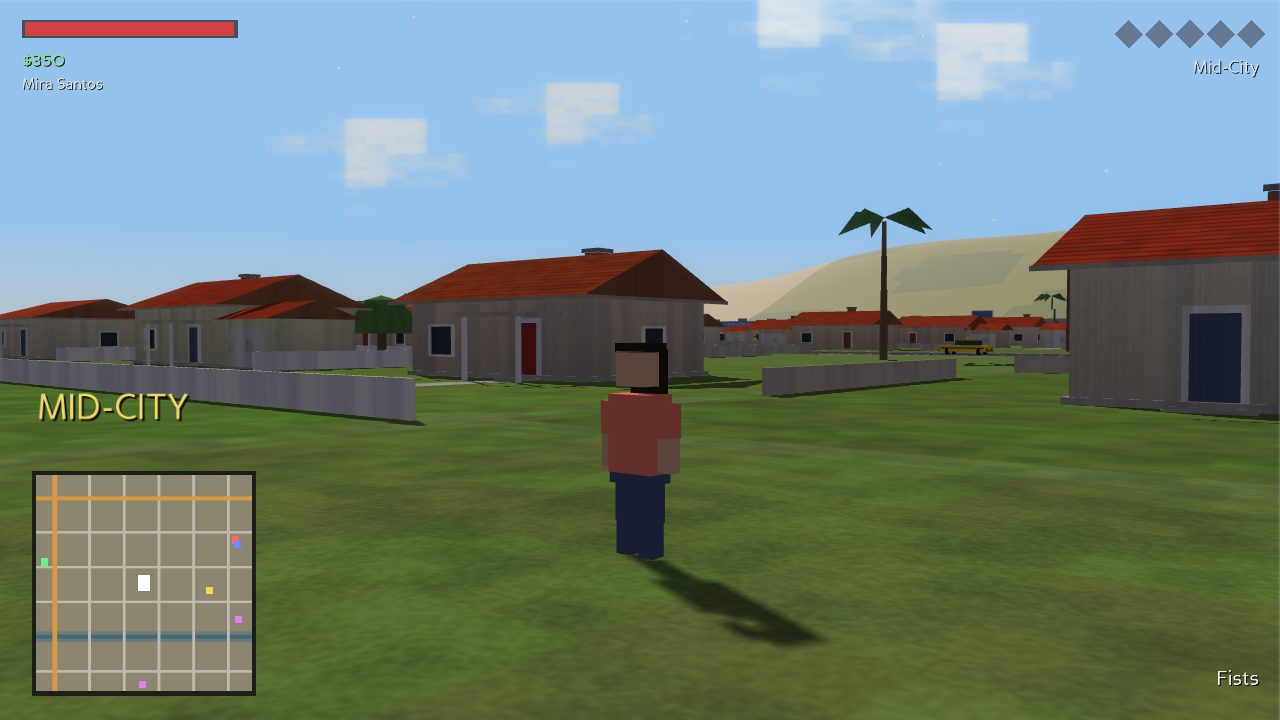
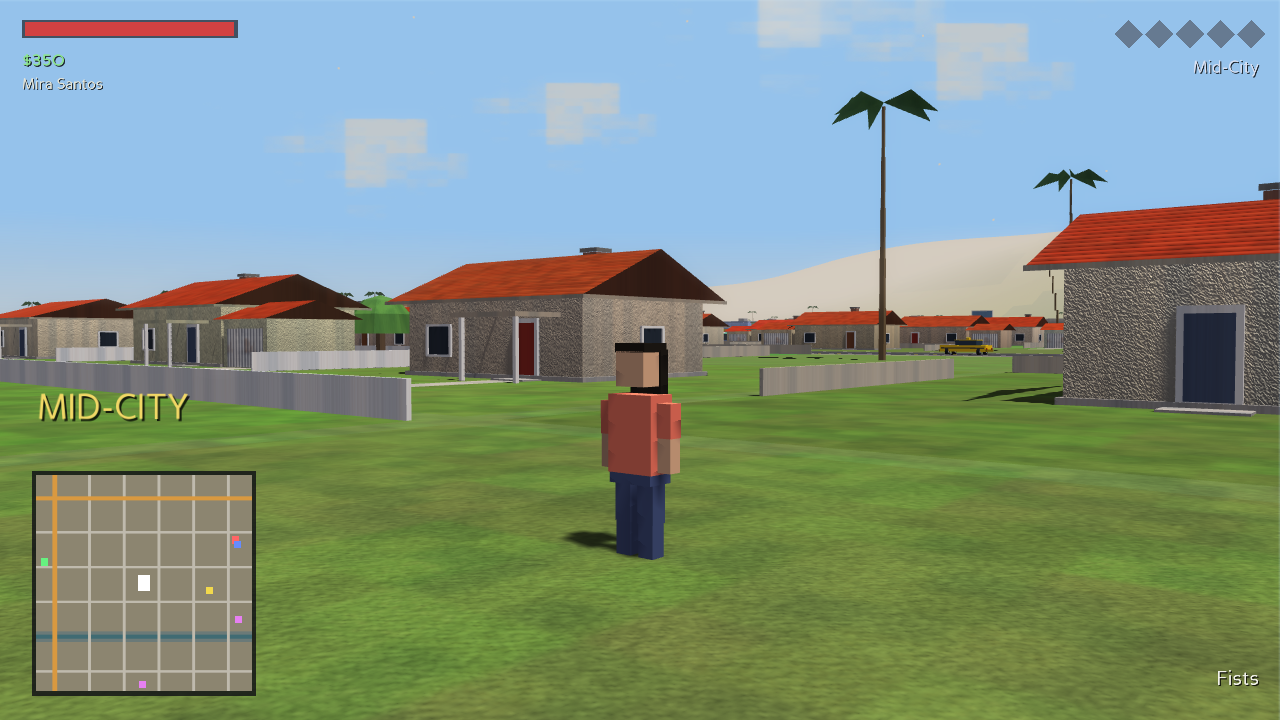
Realism pass: LA solar ephemeris, normal maps, PBR-style response, true scale
- Real sun geometry for Los Angeles (34.05N, Jun 21): elevation/azimuth
  from the standard declination/hour-angle model drives the light
  direction; blackbody-ish color ramp gives golden light below 8 deg
- June-gloom marine layer: gray haze mornings that burn off by 11:00
- Tangent/binormal columns in the mesh format; tangent-space normal
  maps for every material class (concrete joints, roof-tile courses,
  corrugation ribs, asphalt aggregate, sand ripples, stucco grain,
  facade mullions), aligned with the diffuse patterns
- Per-material specular response: matte stucco/grass to semi-gloss
  metal and glossy glass curtain walls; specular sun glint on water
- Scale corrections: 3.6 m lane lines, 3 m sidewalks, 12-20 m
  Washingtonia-scale palms with slimmer trunks
- New golden-hour scenario; drive scenario moved to a clear midday

Claude-Session: https://claude.ai/code/session_01Sm8Y5zn3ME1AbFn14h4ane

diff --git a/angelcity/gfx.py b/angelcity/gfx.py
@@ -188,6 +188,62 @@ _MAT_TEX_FNS = {"asphalt": asphalt_texture, "concrete": concrete_texture,
                 "roof": rooftile_texture, "stucco": stucco_texture,
                 "grass": grass_texture, "sand": sand_texture, "metal": metal_texture}
 
+# physically-motivated surface response per class (specular color scale, shininess)
+MAT_SURFACE = {"asphalt": (0.18, 14), "concrete": (0.10, 8), "roof": (0.22, 12),
+               "stucco": (0.06, 6), "grass": (0.04, 4), "sand": (0.07, 5),
+               "metal": (0.65, 30)}
+
+
+def _encode_normal(h, strength):
+    dx = np.roll(h, -1, 1) - np.roll(h, 1, 1)
+    dy = np.roll(h, -1, 0) - np.roll(h, 1, 0)
+    nx, ny, nz = -dx * strength, -dy * strength, np.ones_like(h)
+    l = np.sqrt(nx * nx + ny * ny + nz * nz)
+    arr = np.stack([nx / l, ny / l, nz / l], axis=-1) * 0.5 + 0.5
+    return arr
+
+
+def normal_texture(mat, size=256):
+    """Tangent-space normal map per material, from analytic height fields that line
+    up with the diffuse patterns (joints, tile courses, ribs, ripples, grain)."""
+    y, x = np.mgrid[0:size, 0:size] / size
+    rng = np.random.default_rng(101)
+    if mat == "concrete":
+        h = _fbm(size, 13, 3) * 0.25
+        for k in (0, size // 2):
+            h[k:k + 2, :] -= 1.2
+            h[:, k:k + 2] -= 1.2
+        strength = 2.2
+    elif mat == "roof":
+        course = 8
+        row = (y * course) % 1.0
+        h = np.clip(np.sin(row * math.pi), 0, 1) * 1.6
+        h[row < 0.10] -= 1.2
+        strength = 2.8
+    elif mat == "metal":
+        h = np.abs(np.sin(x * 12 * math.tau)) * 1.4 + _fbm(size, 31, 2) * 0.3
+        strength = 2.6
+    elif mat == "sand":
+        h = np.sin((x * 7 + _fbm(size, 29, 2) * 1.6) * math.tau) * 0.9
+        strength = 1.8
+    elif mat == "asphalt":
+        h = rng.uniform(-1, 1, (size, size)) * 0.35 + _fbm(size, 11, 3) * 0.5
+        strength = 1.6
+    elif mat == "facade":
+        cell = 16
+        h = np.ones((size, size)) * 0.5
+        for k in range(0, size, cell):
+            h[k:k + 2, :] -= 1.4
+            h[:, k:k + 2] -= 1.4
+        strength = 2.0
+    elif mat == "grass":
+        h = rng.uniform(-1, 1, (size, size)) * 0.3 + _fbm(size, 19, 3) * 0.4
+        strength = 0.6
+    else:   # stucco
+        h = rng.uniform(-1, 1, (size, size)) * 0.5 + _fbm(size, 19, 3) * 0.4
+        strength = 1.0
+    return _tex_from_array(_encode_normal(h, strength), "n_" + mat)
+
 
 def facade_texture(size=128, cell=16, seed=7):
     """Window grid for tower walls: glass panes with mullions and per-pane variance."""
@@ -275,26 +331,44 @@ class Gfx:
         city_np.setTexScale(ts, 1 / 9.0, 1 / 9.0)
         city_np.setTexture(ts, detail_texture())
 
-        # per-material textures: horizontal classes are world-projected; wall/roof
-        # classes carry baked UVs from the mesh builder
+        # per-material textures + normal maps + surface response: horizontal classes
+        # are world-projected; wall/roof classes carry baked UVs from the mesh builder
         projected = {"asphalt", "concrete", "grass", "sand"}
         for mat, nodes in game.city.mat_nodes.items():
             fn = _MAT_TEX_FNS.get(mat)
             if fn is None:
                 continue
             tex = fn()
+            ntex = normal_texture(mat)
             base = TextureStage("mat_" + mat)
             base.setMode(TextureStage.MModulate)
+            norm = TextureStage("nrm_" + mat)
+            norm.setMode(TextureStage.MNormal)
+            spec, shin = MAT_SURFACE.get(mat, (0.1, 8))
+            m = Material("m_" + mat)
+            m.setSpecular((spec, spec, spec, 1))
+            m.setShininess(shin)
             for np_ in nodes:
                 np_.setTexture(base, tex)
+                np_.setTexture(norm, ntex)
+                np_.setMaterial(m)
                 if mat in projected:
-                    np_.setTexGen(base, TexGenAttrib.MWorldPosition)
-                    np_.setTexScale(base, 1 / MAT_SCALE[mat], 1 / MAT_SCALE[mat])
+                    for st in (base, norm):
+                        np_.setTexGen(st, TexGenAttrib.MWorldPosition)
+                        np_.setTexScale(st, 1 / MAT_SCALE[mat], 1 / MAT_SCALE[mat])
 
-        # tower facades: three window-grid variants
+        # tower facades: three window-grid variants, glassy response + mullion relief
         variants = [facade_texture(seed=7), facade_texture(seed=15), facade_texture(seed=23)]
+        fnorm = normal_texture("facade", 128)
+        fstage = TextureStage("nrm_facade")
+        fstage.setMode(TextureStage.MNormal)
+        glass_m = Material("m_glass")
+        glass_m.setSpecular((0.9, 0.92, 0.95, 1))
+        glass_m.setShininess(90.0)
         for i, np_ in enumerate(game.city.facade_nps):
             np_.setTexture(variants[i % len(variants)])
+            np_.setTexture(fstage, fnorm)
+            np_.setMaterial(glass_m)
 
         # animated water: drifting layers + specular sun glint
         wnp = game.city.water_np

diff --git a/angelcity/game.py b/angelcity/game.py
@@ -147,10 +147,16 @@ class AngelCityGame(ShowBase):
             p.rig.root.hide()
 
         if name == "drive":
-            self.tod = 0.455
+            self.tod = 0.52
             car = Car(self, "coupe", -1377, -350, 0, color=(0.85, 0.10, 0.15))
             put_in(car)
             car.speed = 16
+            p.x, p.y = car.x, car.y
+        elif name == "golden":
+            self.tod = 0.779           # ~18:40 solar — low golden sun
+            car = Car(self, "lowrider", -1377, -100, 0)
+            put_in(car)
+            car.speed = 14
             p.x, p.y = car.x, car.y
         elif name == "downtown":
             self.tod = 0.30
@@ -284,9 +290,21 @@ class AngelCityGame(ShowBase):
         l = math.sqrt(dx * dx + dy * dy + dz * dz) or 1
         return dx / l, dy / l, dz / l
 
+    def solar(self):
+        """True sun elevation/azimuth for Los Angeles (deg), from time-of-day."""
+        lst = self.tod * 24.0
+        lat = math.radians(C.SOLAR_LAT)
+        dec = math.radians(23.44) * math.sin(math.tau * (284 + C.SOLAR_DAY) / 365.0)
+        H = math.radians((lst - 12.0) * 15.0)
+        el = math.asin(math.sin(lat) * math.sin(dec) +
+                       math.cos(lat) * math.cos(dec) * math.cos(H))
+        az = math.atan2(math.sin(H),
+                        math.cos(H) * math.sin(lat) - math.tan(dec) * math.cos(lat))
+        return math.degrees(el), (math.degrees(az) + 180.0) % 360.0
+
     @property
     def is_night(self):
-        return math.sin(self.tod * math.tau) < -0.04
+        return self.solar()[0] < -1.5
 
     # ---------------- game events ----------------
 
@@ -450,15 +468,32 @@ class AngelCityGame(ShowBase):
     # ---------------- day/night ----------------
 
     def _sky_update(self):
-        el = math.sin(self.tod * math.tau)          # sun elevation -1..1
-        az = self.tod * 360.0 + 90
-        self.sun_np.setHpr(az, -max(-30, el * 80), 0)
-        warm = max(0.0, min(1.0, 1.0 - abs(el - 0.12) * 3)) if el > -0.1 else 0.0
-        if el > 0:
-            sun_col = _lerp((0.95, 0.9, 0.82), (0.95, 0.55, 0.30), warm)
-            sky = _lerp((0.55, 0.74, 0.92), (0.93, 0.62, 0.42), warm)
-            fogc = _lerp((0.80, 0.76, 0.70), (0.9, 0.66, 0.5), warm)
-            amb = _lerp((0.40, 0.40, 0.45), (0.45, 0.38, 0.36), warm)
+        el_deg, az_deg = self.solar()
+        el = math.sin(math.radians(el_deg))
+        # aim the directional light with the real sun geometry (compass az -> Panda H)
+        self.sun_np.setHpr(-az_deg + 180.0, -max(3.0, el_deg), 0)
+        if el_deg > 0:
+            # blackbody-ish ramp: golden at the horizon, neutral-warm at noon
+            if el_deg < 8:
+                sun_col = _lerp((1.0, 0.52, 0.22), (1.0, 0.72, 0.45), el_deg / 8)
+            elif el_deg < 25:
+                sun_col = _lerp((1.0, 0.72, 0.45), (1.0, 0.93, 0.80), (el_deg - 8) / 17)
+            else:
+                sun_col = _lerp((1.0, 0.93, 0.80), (1.0, 0.98, 0.93),
+                                min(1.0, (el_deg - 25) / 35))
+            strength = max(0.30, min(1.0, el_deg / 9.0))
+            sun_col = tuple(cc * strength for cc in sun_col)
+            low = max(0.0, min(1.0, 1.0 - el_deg / 14.0))
+            sky = _lerp((0.55, 0.74, 0.92), (0.93, 0.62, 0.42), low)
+            fogc = _lerp((0.80, 0.76, 0.70), (0.9, 0.66, 0.5), low)
+            amb = _lerp((0.40, 0.40, 0.45), (0.45, 0.38, 0.36), low)
+            # June-gloom marine layer: gray haze until it burns off mid-morning
+            lst = self.tod * 24.0
+            if 5.0 < lst < 11.0:
+                m = min(1.0, max(0.0, (10.5 - lst) / 4.0)) * 0.7
+                fogc = _lerp(fogc, (0.78, 0.79, 0.80), m)
+                sky = _lerp(sky, (0.72, 0.75, 0.78), m * 0.7)
+                sun_col = tuple(cc * (1 - 0.35 * m) for cc in sun_col)
         else:
             k = min(1.0, -el * 5)
             sun_col = _lerp((0.55, 0.45, 0.40), (0.14, 0.16, 0.26), k)
@@ -468,8 +503,12 @@ class AngelCityGame(ShowBase):
         self.sun.setColor(Vec4(*sun_col, 1))
         self.amb.setColor(Vec4(*amb, 1))
         self.setBackgroundColor(sky[0], sky[1], sky[2], 1.0)
+        lst = self.tod * 24.0
+        marine = 0.7 if (5.0 < lst < 11.0 and el_deg > 0) else 0.0
+        near = 200 if self.is_night else (170 if marine else 300)
+        far = 1500 if (marine and el_deg > 0) else 2300
         self.fog.setColor(*fogc)
-        self.fog.setLinearRange(300 if not self.is_night else 200, 2300)
+        self.fog.setLinearRange(near, far)
         px, py = self.player_world_pos()
         self.sky.setPos(px, py, 0)
         sd = self.sun_np.getQuat().getForward()

diff --git a/angelcity/city.py b/angelcity/city.py
@@ -405,16 +405,16 @@ class City:
                     if major:
                         b.add_rect(L - 0.35, t, L - 0.12, t2, z, YELLOW)
                         b.add_rect(L + 0.12, t, L + 0.35, t2, z, YELLOW)
-                        b.add_rect(L - 3.6, t, L - 3.35, t2 - 3, z, WHITE_PAINT)
-                        b.add_rect(L + 3.35, t, L + 3.6, t2 - 3, z, WHITE_PAINT)
+                        b.add_rect(L - 3.72, t, L - 3.48, t2 - 3, z, WHITE_PAINT)
+                        b.add_rect(L + 3.48, t, L + 3.72, t2 - 3, z, WHITE_PAINT)
                     else:
                         b.add_rect(L - 0.12, t, L + 0.12, t2, z, YELLOW)
                 else:
                     if major:
                         b.add_rect(t, L - 0.35, t2, L - 0.12, z, YELLOW)
                         b.add_rect(t, L + 0.12, t2, L + 0.35, z, YELLOW)
-                        b.add_rect(t, L - 3.6, t2 - 3, L - 3.35, z, WHITE_PAINT)
-                        b.add_rect(t, L + 3.35, t2 - 3, L + 3.6, z, WHITE_PAINT)
+                        b.add_rect(t, L - 3.72, t2 - 3, L - 3.48, z, WHITE_PAINT)
+                        b.add_rect(t, L + 3.48, t2 - 3, L + 3.72, z, WHITE_PAINT)
                     else:
                         b.add_rect(t, L - 0.12, t2, L + 0.12, z, YELLOW)
             t = t2 + gap
@@ -1111,19 +1111,21 @@ class City:
                 self._tree(b, tx, ty, 0.1, rng, purple=rng.random() < 0.4)
 
     def _palm(self, b, x, y, z, rng, h=None):
-        h = h or rng.uniform(6.5, 11.0)
-        lean = rng.uniform(-0.06, 0.06)
-        segs = 4
+        # Washingtonia-scale skyline palms: tall, slim, small crown
+        h = h or rng.uniform(12.0, 20.0)
+        lean = rng.uniform(-0.05, 0.05)
+        segs = 5
         px = x
         for i in range(segs):
             px = x + lean * h * (i / segs) ** 1.5 * 3
-            b.add_box(px, y, z + h * i / segs, 0.42 - i * 0.06, 0.42 - i * 0.06,
+            b.add_box(px, y, z + h * i / segs, 0.38 - i * 0.05, 0.38 - i * 0.05,
                       h / segs + 0.1, (0.45, 0.36, 0.24))
         topx, topz = px + lean * h * 0.5, z + h
         green = rng.choice(PALM_GREEN)
+        fr = 2.2 + h * 0.09
         for k in range(6):
             a = k * math.tau / 6 + rng.uniform(-0.2, 0.2)
-            fx, fy = math.cos(a) * 3.4, math.sin(a) * 3.4
+            fx, fy = math.cos(a) * fr, math.sin(a) * fr
             b.add_tri((topx, y, topz + 0.4),
                       (topx + fx * 0.55 - fy * 0.16, y + fy * 0.55 + fx * 0.16, topz + 0.9),
                       (topx + fx, y + fy, topz - 0.7), green)
@@ -1131,7 +1133,7 @@ class City:
                       (topx + fx, y + fy, topz - 0.7),
                       (topx + fx * 0.55 + fy * 0.16, y + fy * 0.55 - fx * 0.16, topz + 0.9),
                       tuple(v * 0.85 for v in green))
-        self.add_collider(x - 0.35, x + 0.35, y - 0.35, y + 0.35, z, z + h * 0.8)
+        self.add_collider(x - 0.3, x + 0.3, y - 0.3, y + 0.3, z, z + h * 0.85)
 
     def _tree(self, b, x, y, z, rng, purple=False):
         h = rng.uniform(3.5, 5.5)

diff --git a/angelcity/meshgen.py b/angelcity/meshgen.py
@@ -2,8 +2,28 @@
 there are no asset files. Meshes use flat shading via per-face normals and vertex colors."""
 
 import math
-from panda3d.core import (Geom, GeomNode, GeomPoints, GeomTriangles, GeomVertexData,
-                          GeomVertexFormat, GeomVertexWriter, NodePath)
+from panda3d.core import (Geom, GeomNode, GeomPoints, GeomTriangles, GeomVertexArrayFormat,
+                          GeomVertexData, GeomVertexFormat, GeomVertexWriter, InternalName,
+                          NodePath)
+
+_TBN_FMT = None
+
+
+def _tbn_format():
+    """v3n3c4t2 plus tangent/binormal so the shader generator can normal-map."""
+    global _TBN_FMT
+    if _TBN_FMT is None:
+        arr = GeomVertexArrayFormat()
+        arr.addColumn(InternalName.getVertex(), 3, Geom.NTFloat32, Geom.CPoint)
+        arr.addColumn(InternalName.getNormal(), 3, Geom.NTFloat32, Geom.CNormal)
+        arr.addColumn(InternalName.getColor(), 4, Geom.NTFloat32, Geom.CColor)
+        arr.addColumn(InternalName.getTexcoord(), 2, Geom.NTFloat32, Geom.CTexcoord)
+        arr.addColumn(InternalName.getTangent(), 3, Geom.NTFloat32, Geom.CVector)
+        arr.addColumn(InternalName.getBinormal(), 3, Geom.NTFloat32, Geom.CVector)
+        fmt = GeomVertexFormat()
+        fmt.addArray(arr)
+        _TBN_FMT = GeomVertexFormat.registerFormat(fmt)
+    return _TBN_FMT
 
 
 def rot2(x, y, ang):
@@ -209,18 +229,27 @@ class MeshBuilder:
             self.add_quad(rights[i], rights[i + 1], lefts[i + 1], lefts[i], color)
 
     def build(self, parent, name=None):
-        fmt = GeomVertexFormat.getV3n3c4t2()
-        vdata = GeomVertexData(name or self.name, fmt, Geom.UHStatic)
+        vdata = GeomVertexData(name or self.name, _tbn_format(), Geom.UHStatic)
         vdata.setNumRows(len(self.verts))
         vw = GeomVertexWriter(vdata, "vertex")
         nw = GeomVertexWriter(vdata, "normal")
         cw = GeomVertexWriter(vdata, "color")
         tw = GeomVertexWriter(vdata, "texcoord")
+        tgw = GeomVertexWriter(vdata, "tangent")
+        bnw = GeomVertexWriter(vdata, "binormal")
         for x, y, z, nx, ny, nz, r, g, b, a, u, v in self.verts:
             vw.addData3(x, y, z)
             nw.addData3(nx, ny, nz)
             cw.addData4(r, g, b, a)
             tw.addData2(u, v)
+            # tangent frame: floors map U to +X; walls map U along the face, V up
+            if abs(nz) > 0.9:
+                tgw.addData3(1, 0, 0)
+                bnw.addData3(0, 1, 0)
+            else:
+                tl = math.hypot(ny, nx) or 1.0
+                tgw.addData3(-ny / tl, nx / tl, 0)
+                bnw.addData3(0, 0, 1)
         prim = GeomTriangles(Geom.UHStatic)
         for t in self.tris:
             prim.addVertices(*t)

diff --git a/angelcity/config.py b/angelcity/config.py
@@ -48,7 +48,7 @@ ROADS_H = [-1140.0 + i * 180.0 for i in range(12)]   # street centerlines (y)
 MAJOR_EVERY = 3
 ROAD_HALF_MAJOR = 7.0
 ROAD_HALF_MINOR = 5.0
-SIDEWALK_W = 2.5
+SIDEWALK_W = 3.0      # real LA sidewalks run ~3 m
 LANE_OFFSET = 3.0
 
 # real street names, west→east for avenues, south→north for streets
@@ -75,7 +75,9 @@ MARINA_Y = -600.0                        # small-craft harbor at the creek mouth
 BRIDGE_Y = -1255.0                       # green suspension bridge over the river mouth
 
 DAY_LENGTH = 480.0
-START_TOD = 0.32
+START_TOD = 0.40
+SOLAR_LAT = 34.05    # Los Angeles
+SOLAR_DAY = 172      # June 21 sun path
 
 PLAYER_MAX_HP = 100.0
 START_MONEY = 350

diff --git a/README.md b/README.md
@@ -77,6 +77,13 @@ The renderer runs a modern pipeline — with every texture still generated in co
   lines, and freeway billboards running original ads
 - **Real dynamic lights at night**: the player car casts true spotlight headlight
   beams, and pursuing police carry a flashing red/blue strobe light
+- **Tangent-space normal maps on every material** (stucco grain, sidewalk joints,
+  roof-tile courses, corrugation ribs, asphalt aggregate, sand ripples, facade
+  mullions) with per-material specular response — matte stucco to glossy curtain wall
+- **A real solar model**: the sun follows the true Los Angeles sky path (34.05°N,
+  June 21 ephemeris) with a blackbody color ramp — golden light at low elevations —
+  plus a gray **marine-layer** haze that burns off mid-morning, June-gloom style
+- **Real-world scale**: 3.6 m lanes, 3 m sidewalks, Washingtonia-height skyline palms
 - **Motion & physics accuracy**: mass-weighted collision impulses, visible weight
   transfer (body roll in corners, dive under braking), coordinated bank-to-turn
   flight (`yaw rate = g·tan(bank)/V`), ballistic pedestrian knockdowns, skid marks
